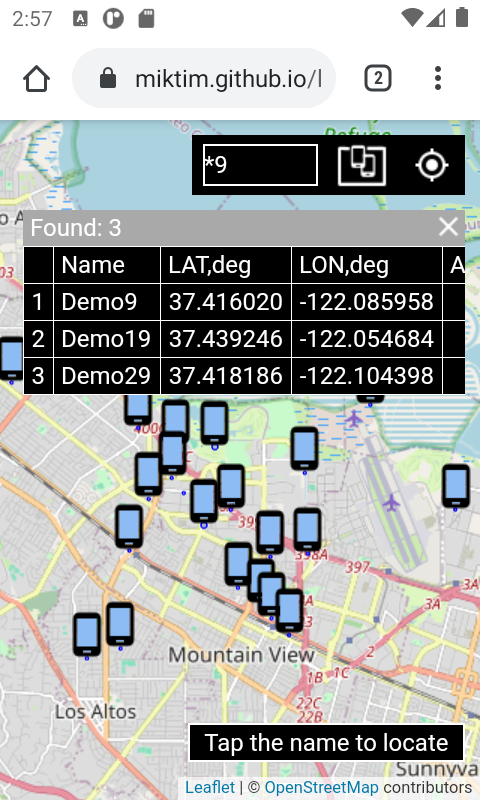
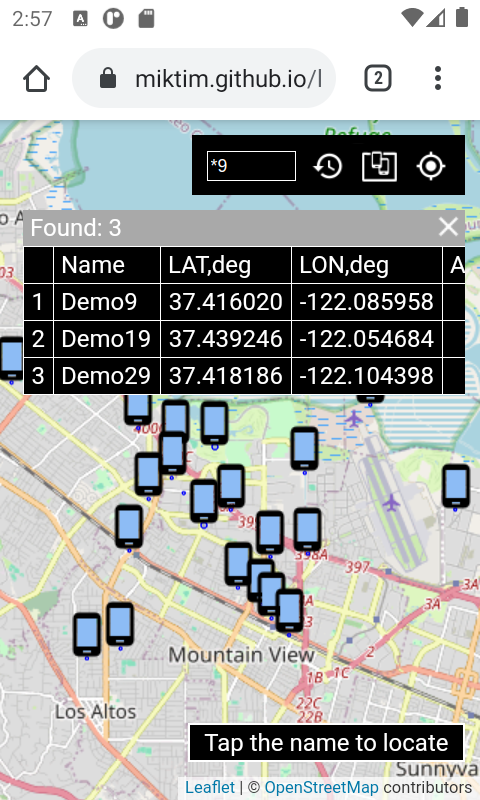
1.2.2

Changed region(s): [[0.6562, 0.1562, 0.8438, 0.25], [0.4062, 0.1875, 0.625, 0.25], [0.875, 0.1875, 0.9375, 0.25]]

diff --git a/README.md b/README.md
@@ -41,7 +41,8 @@ Track your own location:
 The objects are represented by an icon and a circle with a radius equal to the accuracy of the coordinates. Objects with an expired timeout dim.
   
 Controls at the screen top right:
-- field to search objects by name. You can use wildcards in the file search style: ? - any single character, * - any characters. Tap the name to locate the object.  
+- field to search objects by name. You can use wildcards in the file search style: ? - any single character, * - any characters. Tap the name to locate the object. 
+- button to display the message history. 
 - button to display all objects on the screen.  
 - button for centering the map according to your own location.  
 
